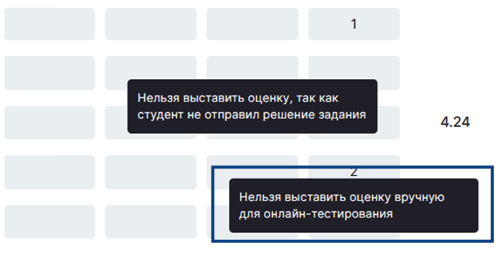
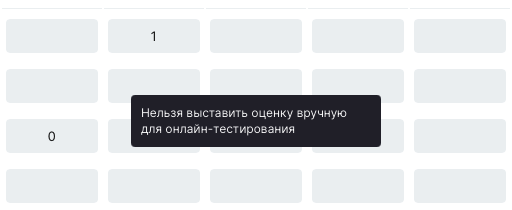
Update 2 files
- novosti/podrobnee-obo-vsekh-obnovleniyakh/ocenka-za-kontrolnuyu.md
   - novosti/podrobnee-obo-vsekh-obnovleniyakh/ocenka-za-kontrolnuyu.png

diff --git a/novosti/podrobnee-obo-vsekh-obnovleniyakh/ocenka-za-kontrolnuyu.md b/novosti/podrobnee-obo-vsekh-obnovleniyakh/ocenka-za-kontrolnuyu.md
@@ -7,6 +7,6 @@ title: Оценка за контрольную
 
 По наведению на ячейку с оценкой будет высвечиваться подсказка с текстом в модальном окне "Нельзя выставить оценку вручную для онлайн-тестирования».
 
-![](./ocenka-za-kontrolnuyu.png){width=504px height=254px}
+![](./ocenka-za-kontrolnuyu.png){width=512px height=210px}
 
 19\.12.2025
